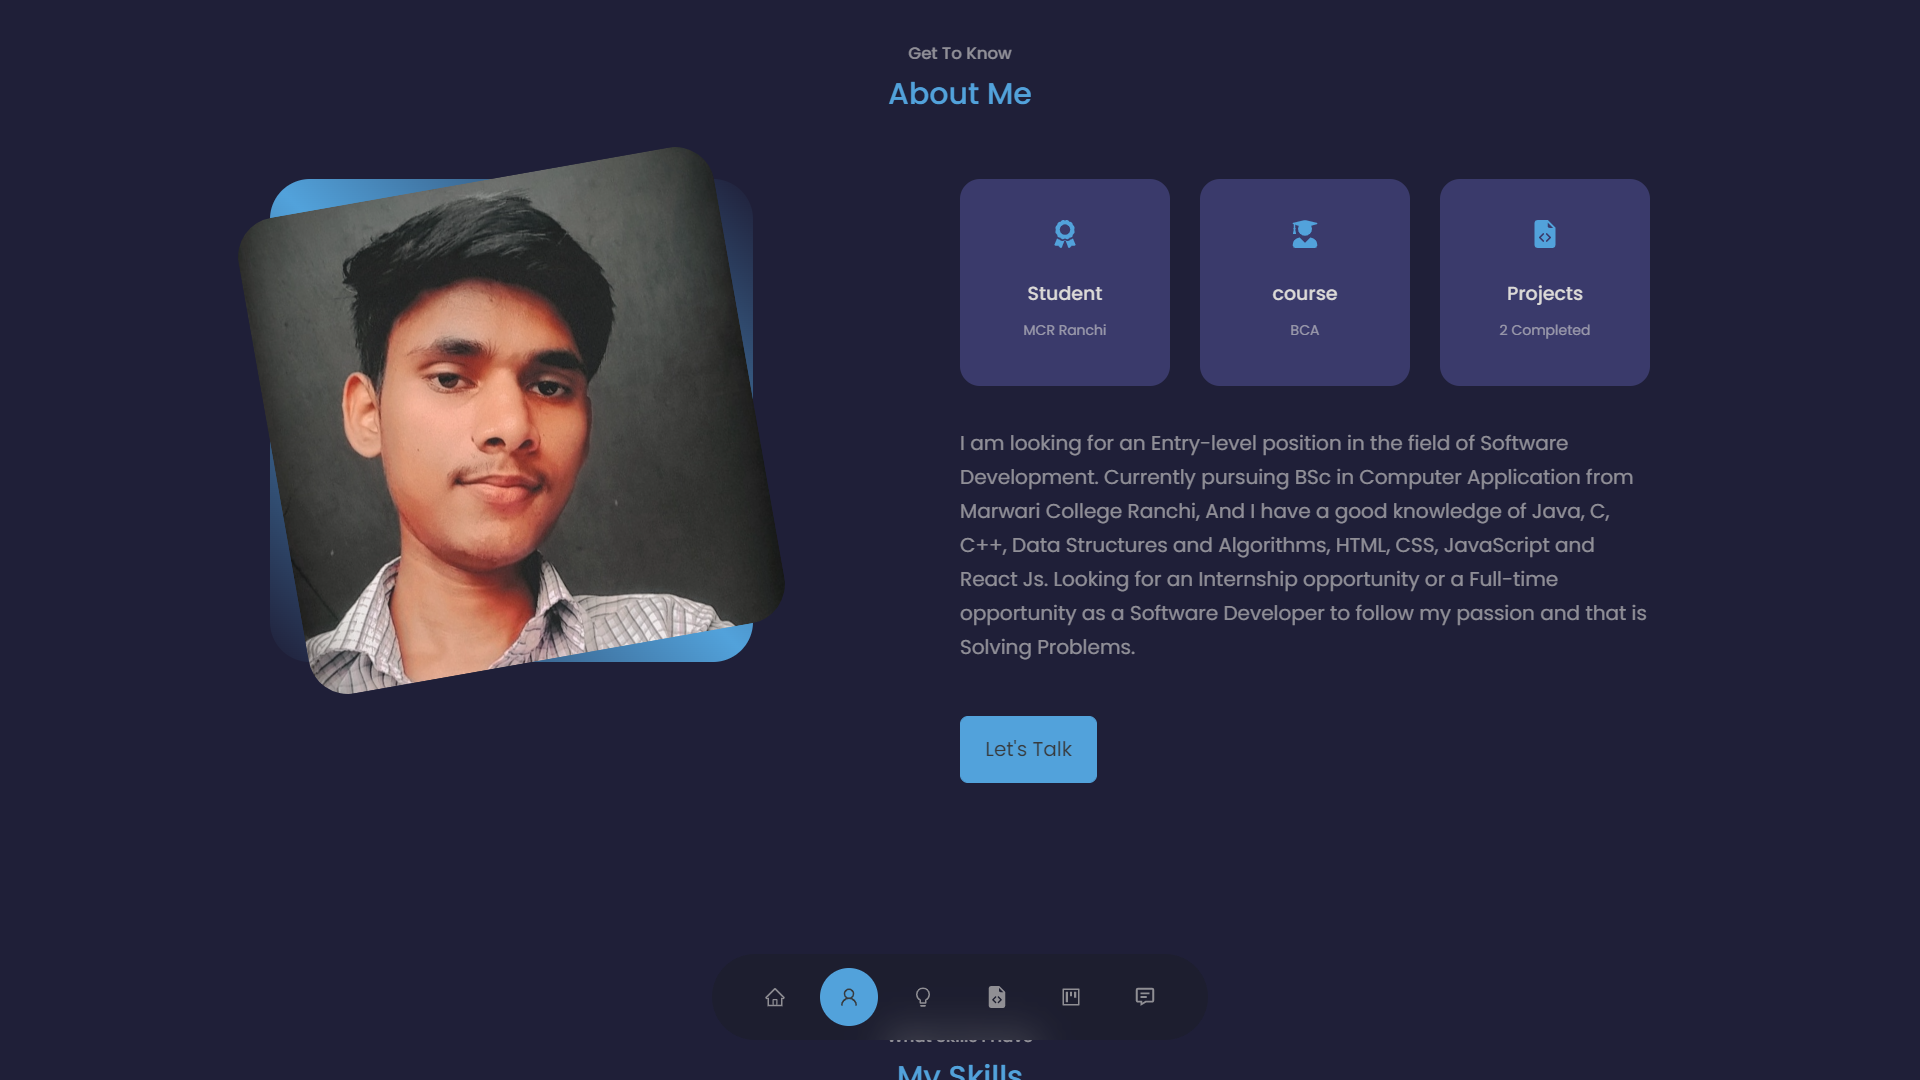
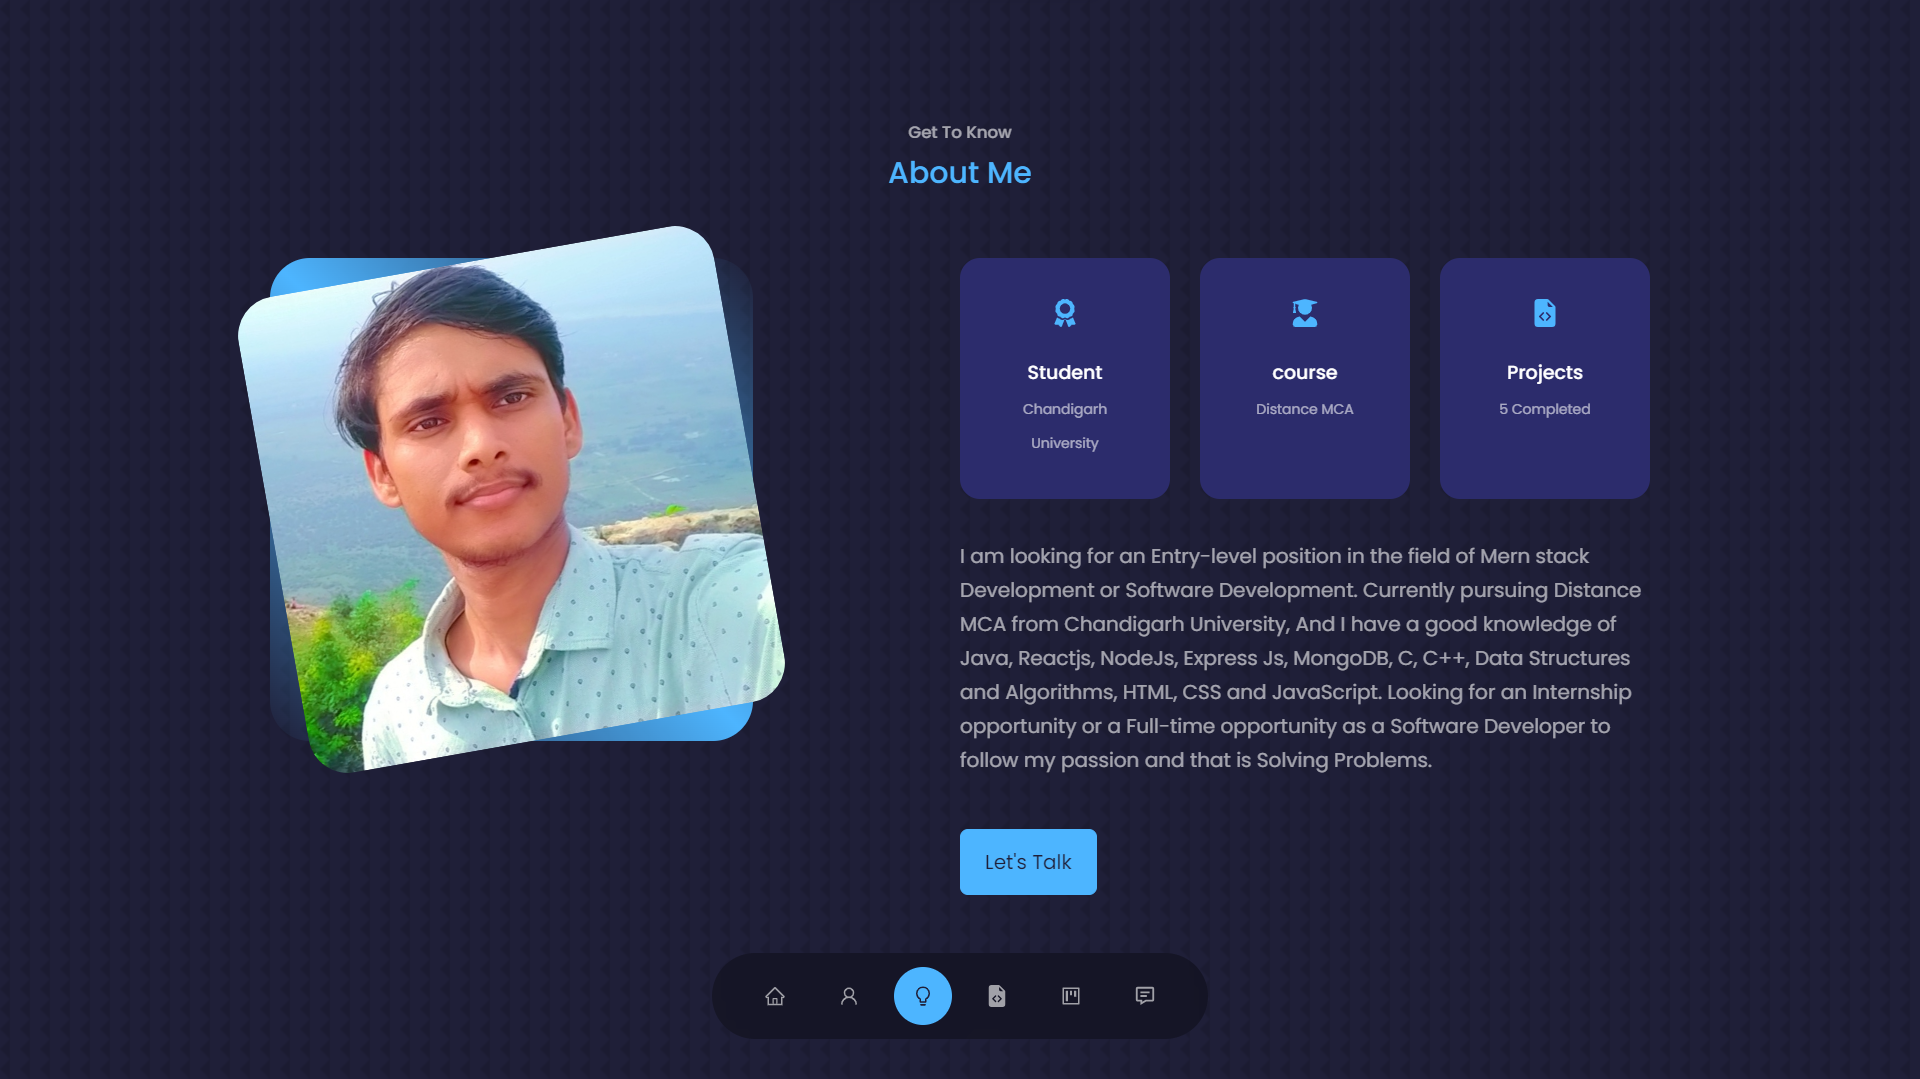
updated profile informations on portfolio

diff --git a/src/components/skills/Skills.jsx b/src/components/skills/Skills.jsx
@@ -9,7 +9,7 @@ const Skills = () => {
       <h2>My Skills</h2>
 
       <div className="container experience__container">
-        <div className="experience__interest">
+        {/* <div className="experience__interest">
           <h3>Skills</h3>
           <div className="experience__content">
             <article className=".experience__details">
@@ -23,14 +23,7 @@ const Skills = () => {
               <BsPatchCheckFill className="experience__details-icon" />
               <div>
                 <h4>Data Structures</h4>
-                <small className="text-light">Intermidiate</small>
-              </div>
-            </article>
-            <article className="experience__details">
-              <BsPatchCheckFill className="experience__details-icon" />
-              <div>
-                <h4>Algorithms</h4>
-                <small className="text-light">Intermidiate</small>
+                <small className="text-light">Advanced</small>
               </div>
             </article>
             <article className="experience__details">
@@ -44,7 +37,41 @@ const Skills = () => {
               <BsPatchCheckFill className="experience__details-icon" />
               <div>
                 <h4>C++</h4>
-                <small className="text-light">Beginner</small>
+                <small className="text-light">Intermediate</small>
+              </div>
+            </article>
+          </div>
+        </div> */}
+
+        <div className="skill__frontend">
+          <h3>Skills</h3>
+          <div className="experience__content">
+            <article className="experience__details">
+              <BsPatchCheckFill className="experience__details-icon" />
+              <div>
+                <h4>Java</h4>
+                <small className="text-light">Intermediate</small>
+              </div>
+            </article>
+            <article className="experience__details">
+              <BsPatchCheckFill className="experience__details-icon" />
+              <div>
+                <h4>Data Structures</h4>
+                <small className="text-light">Advance</small>
+              </div>
+            </article>
+            <article className="experience__details">
+              <BsPatchCheckFill className="experience__details-icon" />
+              <div>
+                <h4>C</h4>
+                <small className="text-light">Intermediate</small>
+              </div>
+            </article>
+            <article className="experience__details">
+              <BsPatchCheckFill className="experience__details-icon" />
+              <div>
+                <h4>C++</h4>
+                <small className="text-light">Intermediate</small>
               </div>
             </article>
           </div>
@@ -59,7 +86,7 @@ const Skills = () => {
               <BsPatchCheckFill className="experience__details-icon" />
               <div>
                 <h4>HTML</h4>
-                <small className="text-light">Intermidiate</small>
+                <small className="text-light">Advance</small>
               </div>
             </article>
             <article className="experience__details">
@@ -73,14 +100,82 @@ const Skills = () => {
               <BsPatchCheckFill className="experience__details-icon" />
               <div>
                 <h4>JavaScript</h4>
-                <small className="text-light">Beginner</small>
+                <small className="text-light">Intermidiate</small>
               </div>
             </article>
             <article className="experience__details">
               <BsPatchCheckFill className="experience__details-icon" />
               <div>
                 <h4>React Js</h4>
-                <small className="text-light">Beginner</small>
+                <small className="text-light">Intermidiate</small>
+              </div>
+            </article>
+          </div>
+        </div>
+
+        <div className="skill__frontend">
+          <h3>Backend Development</h3>
+          <div className="experience__content">
+            <article className="experience__details">
+              <BsPatchCheckFill className="experience__details-icon" />
+              <div>
+                <h4>NodeJs</h4>
+                <small className="text-light">Intermidiate</small>
+              </div>
+            </article>
+            <article className="experience__details">
+              <BsPatchCheckFill className="experience__details-icon" />
+              <div>
+                <h4>ExpressJs</h4>
+                <small className="text-light">Intermidiate</small>
+              </div>
+            </article>
+            <article className="experience__details">
+              <BsPatchCheckFill className="experience__details-icon" />
+              <div>
+                <h4>MongoDB</h4>
+                <small className="text-light">Intermediate</small>
+              </div>
+            </article>
+            <article className="experience__details">
+              <BsPatchCheckFill className="experience__details-icon" />
+              <div>
+                <h4>Rest Api</h4>
+                <small className="text-light">Intermediate</small>
+              </div>
+            </article>
+          </div>
+        </div>
+
+        <div className="skill__frontend">
+          <h3>Tools</h3>
+          <div className="experience__content">
+            <article className="experience__details">
+              <BsPatchCheckFill className="experience__details-icon" />
+              <div>
+                <h4>Git</h4>
+                <small className="text-light">Intermidiate</small>
+              </div>
+            </article>
+            <article className="experience__details">
+              <BsPatchCheckFill className="experience__details-icon" />
+              <div>
+                <h4>GitHub</h4>
+                <small className="text-light">Intermidiate</small>
+              </div>
+            </article>
+            <article className="experience__details">
+              <BsPatchCheckFill className="experience__details-icon" />
+              <div>
+                <h4>Postman</h4>
+                <small className="text-light">Intermediate</small>
+              </div>
+            </article>
+            <article className="experience__details">
+              <BsPatchCheckFill className="experience__details-icon" />
+              <div>
+                <h4>Netlify</h4>
+                <small className="text-light">Advance</small>
               </div>
             </article>
           </div>

diff --git a/src/components/project/Project.jsx b/src/components/project/Project.jsx
@@ -1,6 +1,9 @@
 import React from "react";
 import "./project.css";
 import IMG1 from "../../assests/project1.png";
+import NoteIMG from "../../assests/NoteApp.png";
+import SocialIMG from "../../assests/SocialAppDark.png";
+import FilmIMG from "../../assests/FilmFliker.png";
 import IMG2 from "../../assests/project2.png";
 const Portfolio = () => {
   return (
@@ -11,15 +14,72 @@ const Portfolio = () => {
       <div className="container portfolio__container">
         <article className="portfolio__item">
           <div className="portfolio__item-image">
+            <img src={SocialIMG} alt="" />
+          </div>
+          <h3>SocialCircle - Social Media Web-App</h3>
+          <div className="portfolio__item-cta">
+            <a href="https://github.com/ManishK4514/SocialCircle" className="btn" target="_blank">
+              Github
+            </a>
+            <a
+              href="http://socialcircle.vercel.app/"
+              className="btn btn-primary"
+              target="_blank"
+            >
+              Live Demo
+            </a>
+          </div>
+        </article>
+
+        <article className="portfolio__item">
+          <div className="portfolio__item-image">
+            <img src={FilmIMG} alt="" />
+          </div>
+          <h3>FilmFliker - Movie Catalog Web-App</h3>
+          <div className="portfolio__item-cta">
+            <a href="https://github.com/ManishK4514/FilmFliker" className="btn" target="_blank">
+              Github
+            </a>
+            <a
+              href="https://filmfliker.netlify.app/"
+              className="btn btn-primary"
+              target="_blank"
+            >
+              Live Demo
+            </a>
+          </div>
+        </article>
+
+        <article className="portfolio__item">
+          <div className="portfolio__item-image">
+            <img src={NoteIMG} alt="" />
+          </div>
+          <h3>NoteApp - Note Taking Web-App</h3>
+          <div className="portfolio__item-cta">
+            <a href="https://github.com/ManishK4514/NoteApp" className="btn" target="_blank">
+              Github
+            </a>
+            <a
+              href="http://noteapp4514.netlify.app/"
+              className="btn btn-primary"
+              target="_blank"
+            >
+              Live Demo
+            </a>
+          </div>
+        </article>
+
+        <article className="portfolio__item">
+          <div className="portfolio__item-image">
             <img src={IMG1} alt="" />
           </div>
-          <h3>Personal Portfolio Website</h3>
+          <h3>My Portfolio</h3>
           <div className="portfolio__item-cta">
             <a href="https://github.com/ManishK4514/PersonalPortfolio" className="btn" target="_blank">
               Github
             </a>
             <a
-              href="https://manishk4514.netlify.app/"
+              href="https://manishk4514.vercel.app/"
               className="btn btn-primary"
               target="_blank"
             >
@@ -31,7 +91,7 @@ const Portfolio = () => {
           <div className="portfolio__item-image">
             <img src={IMG2} alt="" />
           </div>
-          <h3>Disney + Hotstar Clone</h3>
+          <h3>Disney + Hotstar Clone - Movie Catalog</h3>
           <div className="portfolio__item-cta">
             <a
               href="https://github.com/ManishK4514/DisneyPlusClone.github.io"
@@ -41,7 +101,7 @@ const Portfolio = () => {
               Github
             </a>
             <a
-              href="https://2lfhyo.csb.app/"
+              href="https://disneyplus4514.netlify.app/"
               className="btn btn-primary"
               target="_blank"
             >

diff --git a/src/components/about/About.jsx b/src/components/about/About.jsx
@@ -21,26 +21,26 @@ const About = () => {
             <article className="about__card">
               <FaAward className="about__icon" />
               <h5>Student</h5>
-              <small>MCR Ranchi</small>
+              <small>Chandigarh University</small>
             </article>
 
             <article className="about__card">
               <FaUserGraduate className="about__icon" />
               <h5>course</h5>
-              <small>BCA</small>
+              <small>Distance MCA</small>
             </article>
 
             <article className="about__card">
               <BsFillFileEarmarkCodeFill className="about__icon" />
               <h5>Projects</h5>
-              <small>2 Completed</small>
+              <small>5 Completed</small>
             </article>
           </div>
 
           <p id="para">
-            I am looking for an Entry-level position in the field of Software
-            Development. Currently pursuing Distance MCA from Chandigarh University, And I have a good knowledge of Java, C, C++,
-            Data Structures and Algorithms, HTML, CSS, JavaScript and React Js.
+            I am looking for an Entry-level position in the field of Mern stack Development or Software
+            Development. Currently pursuing Distance MCA from Chandigarh University, And I have a good knowledge of Java, Reactjs, NodeJs, Express Js, MongoDB, C, C++,
+            Data Structures and Algorithms, HTML, CSS and JavaScript.
             Looking for an Internship opportunity or a Full-time opportunity as
             a Software Developer to follow my passion and that is Solving
             Problems.

diff --git a/src/components/profiles/Profiles.jsx b/src/components/profiles/Profiles.jsx
@@ -15,7 +15,7 @@ const Profiles = () => {
           <SiLeetcode className="profile__option-icon" />
           {/* <h5>stepheneliazer18</h5> */}
           <h4>Leetcode</h4>
-          <h5 className="light-grey">700+ Problems</h5>
+          <h5 className="light-grey">1000+ Problems</h5>
           <a href="https://leetcode.com/manishk4514/" target="_blank">
             View Profile
           </a>
@@ -24,7 +24,7 @@ const Profiles = () => {
           <SiGeeksforgeeks className="profile__option-icon" />
           {/* <h5>stepheneliazer18</h5> */}
           <h4>GeeksForGeeks</h4>
-          <h5 className="light-grey">1300+ Score</h5>
+          <h5 className="light-grey">1600+ Score</h5>
           <a
             href="https://auth.geeksforgeeks.org/user/manishk4514"
             target="_blank"
@@ -36,7 +36,7 @@ const Profiles = () => {
           <SiCodechef className="profile__option-icon" />
           {/* <h5>stephen18</h5> */}
           <h4>Codechef</h4>
-          <h5 className="light-grey">1497 Rating</h5>
+          <h5 className="light-grey">1521 Rating</h5>
           <a href="https://www.codechef.com/users/manishk4514" target="_blank">
             View Profile
           </a>

diff --git a/src/components/header/Header.jsx b/src/components/header/Header.jsx
@@ -10,7 +10,7 @@ const Header = () => {
       <div className="container header__container">
         <h5>Hello I'm</h5>
         <h1>Manish Kumar</h1>
-        <h5 className="text-light">Developer</h5>
+        <h5 className="text-light">FullStack Developer</h5>
         <CTA />
         <HeaderSocials />
 
